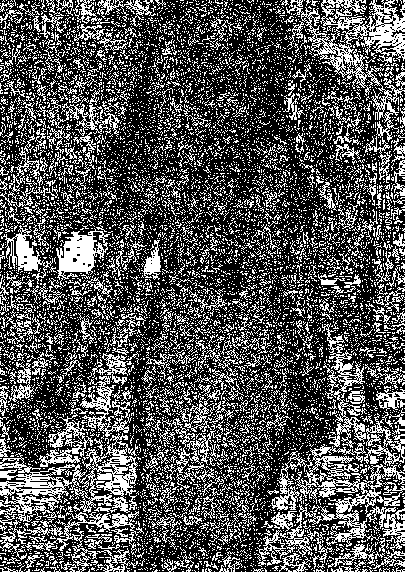
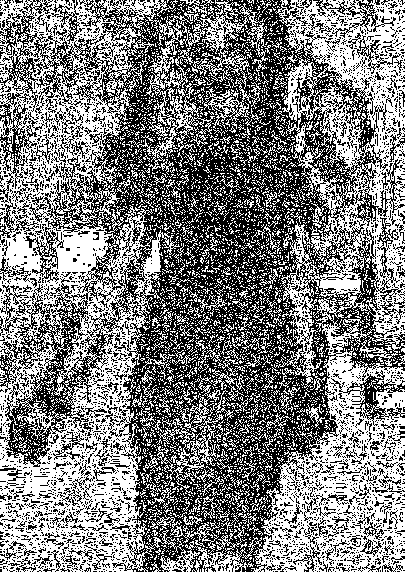
Empty Mask documentation; Color is global operation

diff --git a/maskgen/graph_auto_updates.py b/maskgen/graph_auto_updates.py
@@ -76,7 +76,7 @@ def updateJournal(scModel):
          ("04.0810.9381e76724", [_fixCopyST, _fixCompression]),
          ("0.4.0901.723277630c", [_fixFrameRate, _fixRaws]),
          ("0.4.1115.32eabae8e6", [_fixRecordMasInComposite]),
-         ("0.4.1204.5291b06e59", [_addColor, _fixAudioOutput, _fixEmptyMask, _fixGlobal]),
+         ("0.4.1204.5291b06e59", [_addColor, _fixAudioOutput, _fixEmptyMask]),
          ("0.4.1231.03ad63e6bb", [_fixSeams]),
          ("0.5.0227.c5eeafdb2e", [_addColor256, _fixDescriptions,_fixUserName]),
          ('0.5.0227.6d9889731b', [_fixPNGS,_emptyMask]),
@@ -97,7 +97,7 @@ def updateJournal(scModel):
          ('0.6.0103.9d9b6e95f2', []),
          ('0.6.0117.76365a8b60', []),
          ('0.6.0208.ae6b74543d', []),
-         ('0.6.0227.b469c4a202', [_fixAddCreateTime,_fixautopastecloneinputmask, _fixAudioDelete, _fixVideoMasksEndFrame])
+         ('0.6.0227.b469c4a202', [_fixAddCreateTime,_fixautopastecloneinputmask, _fixAudioDelete, _fixVideoMasksEndFrame,_fixGlobal])
          ])
 
     def _ConformVersion(version):
@@ -1283,8 +1283,11 @@ def _fixGlobal(scModel,gopLoader):
     for frm, to in scModel.G.get_edges():
         edge = scModel.G.get_edge(frm, to)
         op = gopLoader.getOperationWithGroups(edge['op'],fake=True, warning=False)
-        if 'global' in edge and edge['global'] == 'yes' and "maskgen.tool_set.localTransformAnalysis" in op.analysisOperations:
-            edge['global'] = 'no'
+        if 'global' in edge and edge['global'] == 'yes':
+            if "maskgen.tool_set.localTransformAnalysis" in op.analysisOperations:
+                edge['global'] = 'no'
+            elif 'Color' in edge['op']:
+                edge['global'] = 'no'
 
 def _fixEmptyMask(scModel,gopLoader):
     import numpy as np

diff --git a/maskgen/tool_set.py b/maskgen/tool_set.py
@@ -1322,7 +1322,10 @@ def globalTransformAnalysis(analysis, img1, img2, mask=None, linktype=None, argu
 
 
 def localTransformAnalysis(analysis, img1, img2, mask=None, linktype=None, arguments={}, directory='.'):
-    globalchange = globalTransformAnalysis(analysis, img1, img2, mask=mask, linktype=linktype, arguments=arguments,
+    globalchange = globalTransformAnalysis(analysis, img1, img2,
+                                           mask=mask,
+                                           linktype=linktype,
+                                           arguments=arguments,
                                            directory=directory)
     analysis['global'] = 'no'
     return globalchange

diff --git a/doc/NewOperation.md b/doc/NewOperation.md
@@ -17,7 +17,7 @@ Deciding to add a new operation is based on:
 
 Comparison and Mask Generation collectively determine how two media items--before and after manipulation--are different, generating masks and change meta-data.
 
-For example, Crop Resize is specialty operation found in some tools.  The sofware crops and image and restores the crop to the original size of the image using some interpolation.  It is one operation with 'special sauce'.   It cannot be grouped with the individual Crop and Resize operations since the intermediate crop image is missing and the actual location of the crop is not immmediatly known.  In this case, the comparison function resizes the original image back to the crop size, as gathered from the manipulation sofware tool and recorded by the user.  The next step is to find the location of the crop in the original image.  Finally a mask of the crop region only is created, showing the amount of change that occurred during interpolation.   
+For example, Crop Resize is a specialty operation found in some tools.  The sofware crops and image and restores the crop to the original size of the image using some interpolation.  It is one operation with 'special sauce'.   It cannot be grouped with the individual Crop and Resize operations since the intermediate crop image is missing and the actual location of the crop is not immmediatly known.  In this case, the comparison function resizes the original image back to the crop size, as gathered from the manipulation sofware tool and recorded by the user.  The next step is to find the location of the crop in the original image.  Finally a mask of the crop region is created, showing the amount of change that occurred during interpolation.   
 
 Comparison functions live in tool_set or video_tools.
 
@@ -102,13 +102,21 @@ Substitute masks replace edge masks.  CAUTION: These masks do not reflect actual
 
 Edge masks included in a probe are selected as part of the probe generation API.  By default, all edge masks that are labeled as to included to in a 'composite' (blue color links in the JT UI) are included in a generated probe set.  
 
+The default includsion setting for a link is deteremined by the *includeInMask* attribute of associated operation. 
+
+The functions for probe inclusion include:
+
+* mask_rules.isEdgeLocalized -> Blue linked or  links with non global masks in the following categories 'Output', 'AntiForensic', 'PostProcessing', 'Laundering', and 'TimeAlteration'  .
+* mask_rules.isEdgeComposite -> Blue link only
+* mask_rules.isEdgeNotDonorAndNotEmpty -> non donor links with non-empty masks
+
 ## Composites
 
-The term *Composite* is derived from the notion that a final media is the composite of a series of manipulation.  A *Composite* mask attempts to represent all the changes in one mask media file.    However, each composite mask, depending its make-up, may leave some manipulations not-represented due obfuscation (e.g. Color Masks).
+The term *Composite* is derived from the notion that a final media is the composite of a series of manipulation.  A *Composite* mask attempts to represent all the changes in one mask media file.    However, each composite mask, depending its make-up, may leave some manipulations not represented due obfuscation (e.g. Color Masks).
 
 Composites are described in the API documentation.
 
-For the remainder of this document the term 'Composite Image' is misused, as it is only a single representation of one edge/manipulation.
+*For the remainder of this document the term 'Composite Image' is a single representation of one edge/manipulation.*
 
 ## Probe Generation
 
@@ -116,7 +124,7 @@ Probe generation involves overlaying each generated edge mask over the final med
 
 > If a manipulation does not effect a mask, the mask is forwarded to the next manipulation's transformation function.  
 
-Transforms are strictly spatial for images when dealing with masks, include resizing, cropping, warping, etc.  For video and audio, transforms are mostly temporal accept for crop and size (wxh) manipulations.   At this time, the level of effort to handle complex spatial adjustments in video such as warping and spatial object rotation is outside the scope of complexity for the tool.
+Transforms are strictly spatial for images when dealing with masks, include resizing, cropping, warping, etc.  For video and audio, transforms are typically temporal accept for crop and size (wxh) manipulations.   *At this time, the level of effort to handle complex spatial adjustments in video such as warping and spatial object rotation is outside the scope of complexity for the tool.*
 
 Probe generation also supports donor media overlay, applying prior transforms in the reverse direction, essentially backing out the manipulations prior to the mask.
 
@@ -279,9 +287,9 @@ Videomasks is a list of segments.
 
 ## Probe Pre-process
 
-The change mask generated during the comparison is often used as the starting state of probe mask, prior to applying transforms.  In somecase, the mask or segments need to be adjusted as the initial state. For example, in select cut frames, the mask reflects the removed frames.  However, these frames do not exist in the final video, thus the video segments record the set neigboring frames of the cut in the final video.
+The change mask generated during the comparison is often used as the starting state of probe mask, prior to applying transforms.  In some cases, the mask or segments need to be adjusted as the initial state. For example, in select cut frames, the mask reflects the removed frames.  However, these frames do not exist in the final video, thus the video segments record the set neigboring frames of the cut in the final video.
 
-In general, masks and segments are always in the dimensions, spatial and temporal, of the source, identifying on the source what was changed, removed, etc.  In operations that generate masks that cut, resize or otherwise change these dimensions must be cast into the target media space.
+In general, masks and segments are always in the dimensions, spatial and temporal, of the source, identifying what changed to the source to build the target.  Masks and meta-data associated with operations that cut, resize or otherwise change these dimensions must transformed into the target media space.
 
 The signature for a preprocess function is as follows:
 
@@ -307,13 +315,11 @@ Select Cut Frames recorded video segment does contain a HDF5 spatial mask.  The 
 
 Seam Carving spatial masks represent seams removed from the basis image.  Since these pixels cannot be represented in the next manipulation, the neighbor pixels are represented in the mask.  This appears like two pixel wide lightning stricks across the image, vertically or horizontally.
 
-
-
-
-
 ## Operation
 
 This section describes the operation definition as it exists in the JSON file.
+
+* *deprecated*: Is the operation discontinued for future use.
 
 * *category*: Like operations grouped together
 
@@ -387,6 +393,7 @@ Parameters are defined optional and mandatory sections of the operation.  Each p
 - *description* - description of the parameter
 - *defaultvalue* - default value (optional)
 - *source*- Parameter is conditioned to be collected for a specific type of media such image, zip, video or audio (optional).
+- *trigger mask*-If true, mask generation is triggered if the parameter value is changed for graph link.
 
 The source type specific values is inforced in the UI.  It is not enforced in batch projects.  The batch specification to not indicate random selection of values from the parameter if there is a type restriction..
 ## Comparison and Mask Generation
@@ -444,6 +451,37 @@ def checkCropSize(op, graph, frm, to):
             return (Severity.ERROR,'Crop cannot increase a dimension size of the image')
 ```
 
+### Deprecation
+
+A deprecated operation is still defined in the JSON file.  It is not to be used during journal construction.  Deprecation is indicated by the *deprecated* attribute with the value *true*.
+
+```
+"deprecated": true
+```
+
+### Subclass
+
+A subclass of an operation is an operation with the subclass name separated from the parent by '::'.  For example the subclass BitDepth of OutputPng is OutputPng::BitDepth.  Subclasses occur in two ways.  First, a plugin may define a subclass operation through the operation name within the operation description for the plugin.  In this case, the subclass need to be defined in the JSON file.  Second, the operation may be defined in the JSON file.  In this case, it is only necessary to supply attriutes of the operation that diff from the parent class.   All changes are additive or replacement.  A parent attribute can not be removed (e.g. an argument).  An argument can be moved from optional into mandatory with a different definition.   
+
+When defining attributes associated maps (e.g. mandatory and optional parameters, *includeInMask*, *compareParameters*), the only the keyed values are replaced or added; the entire map is not replaced.
+
+In the example below, mandatory parameters of OutputPng are extended with additional 'Depth' parameter.
+
+```
+{
+      "name": "OutputPng::BitDepth",
+      "mandatoryparameters": {
+         "Depth": {
+           "type":"list",
+           "values": ["8","12","16","24","32"],
+           "description": "Bit Depth Used"
+         }
+       }
+    },
+```
+
+
+
 ### Fix Functions
 
 A fix function promises to fix the issue raised during validation with minimal or no additional input from the user.  A fix function signature is as follows.
@@ -456,7 +494,7 @@ def fixX(graph, start, end):
 @param end: end node id (str) for errorneous edge
 ~~~
 
-## HELP
+## Help Menus
 
 Help resources are maintained under *resources/help*.  Each operation has several PNG files that describe the operation.
 

diff --git a/doc/API.md b/doc/API.md
@@ -1016,9 +1016,9 @@ TBD
 
  A path name is a set of key names separated by '.'. A path name used to set and fetch data associated with a dictionary.
 
-~~~
 For the following dictionary, path argumens.subject accesses value 'person':
 
+~~~
 {
  "arguments": {
      "subject":"person"
@@ -1026,9 +1026,68 @@ For the following dictionary, path argumens.subject accesses value 'person':
 }
 ~~~
 
+The following functions are available in maskgen.support:
+
+* getValue (dictionary, path, defaultValue=None)
+* setPathValue(dictionary, path, value)
+* removeValue(dictionary,path)
 
 
 
+## Meta Data 
+
+### video_tools.MetaDataLocator
+
+The locator extracts meta data for media. 
+
+The locator is extended by 
+
+```
+        self.tools = {'zip': ZipMetaLocatorTool(self),
+                      'image': ImageMetaLocatorTool(self),
+                      'audio':AudioMetaLocatorTool(self),
+                      'video':VideoMetaLocatorTool(self)}
+```
+
+* getMaskSetForEntireVideo (self, start_time='00:00:00.000', end_time=None, media_types=['video'], channel=0) -> produce a single  (segment) for the video or audio given the time constraints.
+
+* get_frame_count -> return frame count for media
+
+* get_duration -> return duration in millisecond
+
+* get_meta -> returns tuple with meta data requested as determined by the parameters.
+
+  * a list of meta-data dictionary per stream 
+  * a corresponding list of frames per stream.  Each set frames is list of dictionaries, thus frames is a list of list of dictionaries.
+
+* ```
+  get_meta(self,
+               with_frames=False,
+               show_streams=False,
+               count_frames=False,
+               media_types=['video'],
+               frame_meta=['pkt_pts_time', 'pkt_dts_time', 'pkt_duration_time'],
+               frame_limit=None,
+               frame_start=None
+               ):
+  ```
+
+Locator's are subclassed to extract meta-data for a specific file.
+
+* video_tools.FileMetaDataLocator(media_file_name) -> 
+* graph_meta_tools.ExtractorMetaDataLocator -> extract given a node id, using cached information in the graph if available.
+
+##graph_meta_tools.MetaDataExtractor
+
+The extractor answers meta-data.
+
+* getMasksFromEdge (source, target, media_types, channel=0, startTime=None, endTime=None) produces the videomasks from the edge.  If none are found, a segment representing the entire video (or audio) given the edge's temporal constraints is produced from the edge's source media.
+
+* create_video_for_audio (source, masks) consumes audio, creating 'video_associate' masks by find the frames aligned to the audio mask's start and times.   Frame start and end times in the video_associate will not match the audio times, using the the times of the frames that 'cover' the audio time.
+
+* warpMask( video_masks, source, target, expectedType='video', inverse=False, useFFMPEG=False) compares the frame rate and duraton of the target video.  If the rate or duration do not match, a new set of video masks is created projecting the source masks into the target temporal space.
+
+  **NOTE:** Spatial masks cannot be reinterpolated efficiently. Thus,  spatial masks are dropped or added (duplicates) during re-alignment.  This directly impacts the quality of masks when the rate and duration between source and target are signficantly different.
 
 # Project JSON
 

diff --git a/doc/FAQ.md b/doc/FAQ.md
@@ -8,6 +8,23 @@ TBD
 
 TBD
 
+# Empty and Global Masks
+
+Global mask is mask the affects a diffuse large part of an image.   Many operations are assumed global based on their 'generateMask' value.  Empty masks occur if the operation does not affect the image content  (meta-data only), the relevant remaining content is unchanged (e.g. Crop) or the operation was not recorded correctly.
+
+Some links include a 'global' value of 'yes' or 'no'.  These links are associated with operations that may be local or global (e.g Blur).
+
+During probe construction, masks are aligned to final images.  During this process, some masks are emptied.  A mask is empty in probe if (1) The link mask if the operation is local and empty or (2) a prior operation occluded the mask.  We made a program decision that occlusion can only occur if the area of an image aligned to mask is subsequently manipulated to remove the content (remove the prior manipulation) or paste over the content (Paste Sampled and Paste Splice).  Otherwise, the JT probe construction delivers a mask despite potential occlusion.  Thus, it is import for test production to factor in the order and depth of manipulations that affect the same local area of an image as indicated by their masks.
+
+Is an empty mask an error?  From the perspective of probe generation: no; an empty mask is an undetectable probe.  From a journal perspective, an empty mask may indicate an operation not recorded properly.  This could mean the operation never occurred or did occur but not recorded.  In the later case, the subsequent operation's mask and resulting image will include both operations in one result.   Thus, empty mask conditions should be inspected to consider their impact.
+
+An probe can be produced by the JT with an empty mask id
+
+* If the a link with an operation 'removes' the contents of a mask  (e.g. occlusion) from prior link, then that link can contain an attribute *allowed_entities* mapped to a list containing source node identifier of the 'prior' link.
+* The operation is crop, recapture, paste splice, paste sampled or remove.
+
+
+
 # BATCH
 
 ### EXTENSIONS
@@ -66,3 +83,8 @@ Finally, a state file is presevered with all the chosen arguments in the project
 
 It is recommended to remove the old project directory and remove the names used media resources manually out of the associated picklist files in the '--workdir' directory.  Alternatively, every failure ends with a state file, named 'failures-<datetime>.txt', recording the state of the arguments for the batch operations at the time of the failure.   The project may be rerun using the exact state using the '--from_state' command line argument followed by the name of the failure file.
 
+
+
+# FUTURE WISHES
+
+1. Empty mask through operation occlusion is culled from probes (see mask_rules.checkEmptyMask's force option which is equivalent to 'empty masks are ok').

diff --git a/doc/NewFileType.md b/doc/NewFileType.md
@@ -2,6 +2,7 @@
 ## maskgen.tool_set
  (1) Add new type list to getFileTypes()
  (2) Adjust openImage with a new extension to ImageOpener
+
 ## maskgen.scenario_model
  (1) Add new extension to LinkTool--Analysis and Mask generation of source and target.  LinkTool is based on link type; one of  'video.video', 'image.video', 'video.image', 'image.image', 'audio.video'  or 'video.audio'.  Zip media are treated similar to videos with an audio stream
 
@@ -10,8 +11,8 @@
  (4) Update addTools list
 
 ##maskgen.software_loader
- (1) _loadSoftware
- (2) get_versions
+ (1) *_loadSoftware* - load a new software type
+ (2) *get_versions*
 
 ##operations.json
  Add transitions to appropriate operations.
@@ -38,3 +39,64 @@ class DoNothingDonor:
                invert=False):
         return None
 ```
+
+###MetaDataLocator Tool
+
+Add a Locator Tool to the MetaDataLocator.  The locator tool answers meta-data in a consistent way regardless of media type.  
+
+```
+    def __init__(self):
+        self.tools = {'zip': ZipMetaLocatorTool(self),
+                      'image': ImageMetaLocatorTool(self),
+                      'audio':AudioMetaLocatorTool(self),
+                      'video':VideoMetaLocatorTool(self)}
+```
+
+```
+class ImageMetaLocatorTool(VideoMetaLocatorTool):
+
+    def __init__(self, locator):
+        """
+        @type locator: MetaDataLocator
+        """
+        VideoMetaLocatorTool.__init__(self,locator)
+
+    def get_meta(self,
+                 with_frames=False,
+                 show_streams=False,
+                 count_frames=False,
+                 media_types=['video'],
+                 frame_meta=['pkt_pts_time', 'pkt_dts_time', 'pkt_duration_time'],
+                 frame_limit=None,
+                 frame_start=None):
+        meta = [] # of dictionary
+        # expected attributes are nb_frames, nb_read_frames, duration (in seconds), 
+        # width, height, codec_type, codec_name, codec_long_name
+        frames = [] # list of dictionary
+        if with_frames:
+        	# expected attributes include pkt_pts_time,pkt_dts_time, and pkt_duration_time
+            frames = [[{}]]
+        return meta,frames
+
+    def get_frame_rate(self,default):
+        """
+        :param locator:
+        :param default:
+        :param audio:
+        :return:
+        @type locator: MetaDataLocator
+        """
+        return 30.0
+
+    def get_duration(self,default=None):
+        """
+            duration in milliseconds for media
+        :param locator:
+        :param default:
+        :param audio:
+        :return:
+        @type locator: MetaDataLocator
+        """
+        return  0.0333
+```
+
